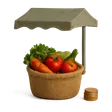
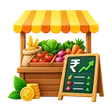
Put generated artwork on every Krushi AI tile, and fix the weather asset
The AI hub header was a gradient sparkles tile plus a title and subtitle; it is
now one brand lockup image. The seven tool cards and four quick-service tiles
each render a generated svc image instead of a flat glyph.

These are not new assets. The svc set already existed at 112/224 WebP, and
every key here was already on disk -- so this follows that convention rather
than inventing one: content filling 86% of the canvas, measured off the
existing files, and every output under the set's byte caps.

Two latent bugs surfaced while wiring it:

  weather.webp shipped a GARDEN TROWEL, not weather. Replaced.

  chat, weather and statecrops were on disk but never registered in PhotoIcon,
  so they shipped in the bundle with no code path able to reach them. Now
  registered. credits and planner are still orphaned this way.

The three newest sources were drawn as app-icon tiles on an OPAQUE backdrop
with the art filling only ~53-62% of the canvas; dropped in as-is they would
have rendered at half size inside a visible off-colour box. Their tile bounds
are detected against the flat backdrop, cropped, and squircle-masked.

ICON_BOX grows 52 -> 60 because IMAGE_PROCESS.md section 2 puts the floor for a
photographic asset at 48dp -- below that a render turns to mud where the SVG kit
still reads. SVG_GLYPH and ICON_GLYPH scale with it so the tiles that kept their
vector icons do not end up rattling around inside a larger box.
[…]

diff --git a/frontend/src/screens/AI/AIAssistantHome.js b/frontend/src/screens/AI/AIAssistantHome.js
@@ -15,7 +15,7 @@
 import { useRef, useEffect, useState } from 'react';
 import {
   View, Text, StyleSheet, ScrollView, TouchableOpacity,
-  Dimensions, Animated, StatusBar,
+  Dimensions, Animated, StatusBar, Image,
 } from 'react-native';
 import { Ionicons } from '@expo/vector-icons';
 import { LinearGradient } from 'expo-linear-gradient';
@@ -30,6 +30,7 @@ import WeatherIcon from '../../components/WeatherIcons';
 import SoilIcon from '../../components/SoilIcons';
 import TabIcon from '../../components/TabIcons';
 import AIServiceIcon from '../../components/AIServiceIcons';
+import PhotoIcon from '../../components/PhotoIcon';
 
 const { width: W } = Dimensions.get('window');
 const GREEN   = COLORS.primary;
@@ -39,15 +40,18 @@ const GREEN_L = COLORS.primaryPale;
 const PAGE_PAD   = 20;   // horizontal screen padding (replaces magic 40 = 2*20)
 const GUTTER     = 12;   // single inter-tile gap for BOTH grids (was 24 vs 12)
 const TILE_R     = 20;   // shared corner radius
-const ICON_BOX   = 52;   // shared icon-box size
-const ICON_GLYPH = 24;   // shared icon glyph size
+const ICON_BOX   = 60;   // shared icon-box size
+// Photographic tiles fill the box. Below 48 dp a render turns to mud where the
+// SVG kit still reads — IMAGE_PROCESS.md §2 — so this must stay >= 48.
+const PHOTO_GLYPH = 52;
+const ICON_GLYPH = 28;   // shared icon glyph size (scales with ICON_BOX)
 // width = (W - 2*PAGE_PAD - (cols-1)*GUTTER) / cols
 const tileWidth  = (cols) => (W - 2 * PAGE_PAD - (cols - 1) * GUTTER) / cols;
 const PRESS_SPRING = { toValue: 0.94, useNativeDriver: true, speed: 40 };
 const RELEASE_SPRING = { toValue: 1, useNativeDriver: true, friction: 4 };
 
 // Glyph size for the realistic SVG icons that sit inside the shared tile bubble.
-const SVG_GLYPH = 32;
+const SVG_GLYPH = 37;
 
 // ── Quick services (4-col icon grid) — labels resolved via t() in render ─────
 // Tiles with `renderIcon` draw a realistic colourful SVG. Krushi Vaani + My Farms
@@ -57,21 +61,21 @@ const SVG_GLYPH = 32;
 // Brand labels point at the canonical aiBrand.* keys so they read
 // "Krushi Drishti / Vaani / Gyaan" in every locale.
 const QUICK_SERVICES = [
-  { id: 'scan',    labelKey: 'aiBrand.drishti', icon: 'scan',                color: COLORS.primary, bg: COLORS.greenTint, border: COLORS.primary + '55', screen: 'CropScan' },
-  { id: 'chat',    labelKey: 'aiBrand.gyaan',   icon: 'chatbubble-ellipses', color: COLORS.blue,    bg: COLORS.blueMist,  border: COLORS.blue + '55',    screen: 'AIChat'   },
-  { id: 'markets', labelKey: 'aiHome.tools.mandi.label', color: COLORS.rustOrange, bg: COLORS.creamOrange, screen: 'Market', renderIcon: () => <TabIcon name="shop" size={SVG_GLYPH} focused /> },
-  { id: 'weather', labelKey: 'aiHome.quickServices.weather', color: COLORS.sellerConfirmed, bg: COLORS.skyPale, screen: 'Weather', renderIcon: () => <WeatherIcon condition="partly-sunny" size={SVG_GLYPH} animated={false} /> },
+  { id: 'scan',    labelKey: 'aiBrand.drishti', icon: 'scan',                color: COLORS.primary, bg: COLORS.greenTint, border: COLORS.primary + '55', screen: 'CropScan', photo: 'scan' },
+  { id: 'chat',    labelKey: 'aiBrand.gyaan',   icon: 'chatbubble-ellipses', color: COLORS.blue,    bg: COLORS.blueMist,  border: COLORS.blue + '55',    screen: 'AIChat', photo: 'chat' },
+  { id: 'markets', labelKey: 'aiHome.tools.mandi.label', color: COLORS.rustOrange, bg: COLORS.creamOrange, screen: 'Market', photo: 'markets', renderIcon: () => <TabIcon name="shop" size={SVG_GLYPH} focused /> },
+  { id: 'weather', labelKey: 'aiHome.quickServices.weather', color: COLORS.sellerConfirmed, bg: COLORS.skyPale, screen: 'Weather', photo: 'weather', renderIcon: () => <WeatherIcon condition="partly-sunny" size={SVG_GLYPH} animated={false} /> },
 ];
 
 // ── AI Tools (2-col grid) ────────────────────────────────────────────────────
 const AI_TOOLS = [
-  { id: 'disease', labelKey: 'aiBrand.drishti', descKey: 'aiHome.tools.disease.desc', icon: 'scan', color: GREEN, bg: COLORS.greenTint, border: GREEN + '55', screen: 'CropScan', badge: 'AI' },
-  { id: 'chatSupport', labelKey: 'aiBrand.gyaan', descKey: 'aiHome.tools.chatSupport.desc', icon: 'chatbubbles', color: COLORS.blue, bg: COLORS.blueMist, border: COLORS.blue + '55', screen: 'AIChat', badge: 'LIVE' },
-  { id: 'voiceChat', labelKey: 'aiBrand.vaani', descKey: 'aiHome.tools.voiceChat.desc', color: COLORS.rustOrange, bg: COLORS.creamOrange, screen: 'VoiceChat', badge: 'NEW', renderIcon: () => <AIServiceIcon name="vaani" size={SVG_GLYPH} animated={false} /> },
-  { id: 'farms', labelKey: 'aiHome.tools.farms.label', descKey: 'aiHome.tools.farms.desc', color: COLORS.primary, bg: COLORS.greenTint, screen: 'FarmList', renderIcon: () => <AIServiceIcon name="farms" size={SVG_GLYPH} animated={false} /> },
-  { id: 'soil', labelKey: 'aiHome.tools.soil.label', descKey: 'aiHome.tools.soil.desc', color: COLORS.brownAlt, bg: COLORS.brownPale, screen: 'SoilHealth', renderIcon: () => <SoilIcon type="black" size={SVG_GLYPH} /> },
-  { id: 'mandi', labelKey: 'aiHome.tools.mandi.label', descKey: 'aiHome.tools.mandi.desc', color: COLORS.rustOrange, bg: COLORS.creamOrange, screen: 'Market', renderIcon: () => <TabIcon name="shop" size={SVG_GLYPH} focused /> },
-  { id: 'stateCrops', labelKey: 'aiHome.tools.stateCrops.label', descKey: 'aiHome.tools.stateCrops.desc', icon: 'map', color: COLORS.brownAlt, bg: COLORS.brownPale, screen: 'StateCrops' },
+  { id: 'disease', labelKey: 'aiBrand.drishti', descKey: 'aiHome.tools.disease.desc', icon: 'scan', color: GREEN, bg: COLORS.greenTint, border: GREEN + '55', screen: 'CropScan', badge: 'AI', photo: 'scan' },
+  { id: 'chatSupport', labelKey: 'aiBrand.gyaan', descKey: 'aiHome.tools.chatSupport.desc', icon: 'chatbubbles', color: COLORS.blue, bg: COLORS.blueMist, border: COLORS.blue + '55', screen: 'AIChat', badge: 'LIVE', photo: 'chat' },
+  { id: 'voiceChat', labelKey: 'aiBrand.vaani', descKey: 'aiHome.tools.voiceChat.desc', color: COLORS.rustOrange, bg: COLORS.creamOrange, screen: 'VoiceChat', badge: 'NEW', photo: 'voice', renderIcon: () => <AIServiceIcon name="vaani" size={SVG_GLYPH} animated={false} /> },
+  { id: 'farms', labelKey: 'aiHome.tools.farms.label', descKey: 'aiHome.tools.farms.desc', color: COLORS.primary, bg: COLORS.greenTint, screen: 'FarmList', photo: 'farms', renderIcon: () => <AIServiceIcon name="farms" size={SVG_GLYPH} animated={false} /> },
+  { id: 'soil', labelKey: 'aiHome.tools.soil.label', descKey: 'aiHome.tools.soil.desc', color: COLORS.brownAlt, bg: COLORS.brownPale, screen: 'SoilHealth', photo: 'soil', renderIcon: () => <SoilIcon type="black" size={SVG_GLYPH} /> },
+  { id: 'mandi', labelKey: 'aiHome.tools.mandi.label', descKey: 'aiHome.tools.mandi.desc', color: COLORS.rustOrange, bg: COLORS.creamOrange, screen: 'Market', photo: 'markets', renderIcon: () => <TabIcon name="shop" size={SVG_GLYPH} focused /> },
+  { id: 'stateCrops', labelKey: 'aiHome.tools.stateCrops.label', descKey: 'aiHome.tools.stateCrops.desc', icon: 'map', color: COLORS.brownAlt, bg: COLORS.brownPale, screen: 'StateCrops', photo: 'statecrops' },
 ];
 
 // ── ServiceTile — ONE tile for both rows (variant: 'quick' | 'card') ─────────
@@ -113,9 +117,35 @@ function ServiceTile({ item, index, variant, onPress, t }) {
           </View>
         )}
 
-        {/* Icon — colourful gradient logo badge (gradient tiles), realistic SVG
-            (renderIcon), else the flat coloured Ionicon. */}
-        {item.gradient ? (
+        {/* Icon — four tiers, in order:
+              1. item.photo   → the generated svc render (IMAGE_PROCESS.md lane R).
+                                On the QUICK row it sits in the tinted box like the
+                                other tiles; on a CARD it floats free, because the
+                                render already carries its own ground and a tinted
+                                plate behind it reads as a box-inside-a-box.
+                                Falls back to the tile's own SVG/Ionicon, never blank.
+              2. item.gradient → colourful gradient logo badge
+              3. item.renderIcon → realistic SVG
+              4. flat coloured Ionicon */}
+        {item.photo ? (
+          <View style={[
+            S.tileIcon,
+            isCard && S.tileIconCard,
+            isCard
+              ? S.tilePhotoBare
+              : { backgroundColor: item.bg, borderColor: item.border || (item.color + '33'), borderWidth: item.border ? 1.5 : 1 },
+          ]}>
+            <PhotoIcon
+              set="svc"
+              name={item.photo}
+              size={PHOTO_GLYPH}
+              radius={0}
+              fallback={item.renderIcon
+                ? item.renderIcon()
+                : <Ionicons name={isCard ? item.icon + '-outline' : item.icon} size={ICON_GLYPH} color={item.color} />}
+            />
+          </View>
+        ) : item.gradient ? (
           <LinearGradient
             colors={item.gradient}
             start={{ x: 0, y: 0 }} end={{ x: 1, y: 1 }}
@@ -149,7 +179,19 @@ function ServiceTile({ item, index, variant, onPress, t }) {
         {/* Text */}
         <Text style={isCard ? S.tileTitle : S.tileLabel}>{t(item.labelKey)}</Text>
         {isCard && item.descKey && (
-          <Text style={S.tileDesc}>{t(item.descKey)}</Text>
+          <View style={S.tileFootRow}>
+            <Text style={[S.tileDesc, S.tileDescFlex]}>{t(item.descKey)}</Text>
+            {/* Decorative affordance only — the whole card is the touch target,
+                so this must not become a second focusable node. */}
+            <View
+              style={[S.tileGo, { backgroundColor: item.bg }]}
+              accessible={false}
+              importantForAccessibility="no-hide-descendants"
+              pointerEvents="none"
+            >
+              <Ionicons name="arrow-forward" size={15} color={item.color} />
+            </View>
+          </View>
         )}
 
       </TouchableOpacity>
@@ -201,17 +243,13 @@ export default function AIAssistantHome({ navigation, embeddedInHub }) {
           embeddedInHub && { paddingTop: 12 },
           { opacity: headerAnim, transform: [{ translateY: headerAnim.interpolate({ inputRange: [0, 1], outputRange: [-16, 0] }) }] },
         ]}>
-          <LinearGradient
-            colors={['#22C55E', '#F5B841']}
-            start={{ x: 0, y: 0 }} end={{ x: 1, y: 1 }}
-            style={S.brandIconWrap}
-          >
-            <Ionicons name="sparkles" size={22} color="#fff" />
-          </LinearGradient>
-          <View style={{ flex: 1 }}>
-            <Text style={S.headerTitle}>{t('aiHome.title')}</Text>
-            <Text style={S.headerSub}>{t('aiHome.subtitle')}</Text>
-          </View>
+          <Image
+            source={require('../../../assets/krushi-ai-header.png')}
+            style={S.brandLockup}
+            resizeMode="contain"
+            accessibilityRole="header"
+            accessibilityLabel={t('aiHome.title')}
+          />
         </Animated.View>
 
         {/* ── Ask input ──────────────────────────────────────────────────── */}
@@ -401,17 +439,10 @@ const S = StyleSheet.create({
 
   // Header
   headerRow: {
-    flexDirection: 'row', alignItems: 'center', gap: 13,
+    flexDirection: 'row', alignItems: 'center',
     paddingTop: 58, paddingHorizontal: 20, paddingBottom: 18,
   },
-  brandIconWrap: {
-    width: 46, height: 46, borderRadius: 16,
-    justifyContent: 'center', alignItems: 'center',
-    shadowColor: '#22C55E', shadowOpacity: 0.4, shadowRadius: 10,
-    shadowOffset: { width: 0, height: 5 }, elevation: 7,
-  },
-  headerTitle: { fontSize: 23, fontWeight: TYPE.weight.black, color: COLORS.textDark, letterSpacing: -0.4 },
-  headerSub:   { fontSize: 12, color: COLORS.textMedium, marginTop: 3, lineHeight: 17 },
+  brandLockup: { width: 234, height: 64 },
 
   // Ask input
   askBtn: {
@@ -485,6 +516,8 @@ const S = StyleSheet.create({
   },
   // Card-only: spacing below icon (quick row uses column `gap` instead)
   tileIconCard: { marginBottom: 10 },
+  // Card photos float on the card surface — no tint, no outline (see ServiceTile).
+  tilePhotoBare: { backgroundColor: 'transparent', borderWidth: 0 },
   // Colourful gradient logo badge — no border, soft coloured glow for a modern,
   // "futuristic" look (shadowColor is set per-tile from its gradient).
   tileIconGradient: {
@@ -497,6 +530,12 @@ const S = StyleSheet.create({
   // Card text
   tileTitle: { fontSize: 13.5, fontWeight: TYPE.weight.black, color: COLORS.textDark, marginBottom: 5, lineHeight: 18 },
   tileDesc:  { fontSize: 11.5, color: COLORS.textMedium, lineHeight: 16 },
+  tileDescFlex: { flex: 1 },
+  tileFootRow: { flexDirection: 'row', alignItems: 'center', gap: 8 },
+  tileGo: {
+    width: 30, height: 30, borderRadius: 15,
+    alignItems: 'center', justifyContent: 'center',
+  },
 
   // History row — separate per-service entry points
   historyRow: {

diff --git a/frontend/src/components/PhotoIcon.js b/frontend/src/components/PhotoIcon.js
@@ -143,12 +143,15 @@ const SETS = {
     success: require('../../assets/state/success.webp'),
   },
   svc: {
+    chat: require('../../assets/svc/chat.webp'),
     farms: require('../../assets/svc/farms.webp'),
     markets: require('../../assets/svc/markets.webp'),
     scan: require('../../assets/svc/scan.webp'),
     soil: require('../../assets/svc/soil.webp'),
     soilscan: require('../../assets/svc/soilscan.webp'),
+    statecrops: require('../../assets/svc/statecrops.webp'),
     voice: require('../../assets/svc/voice.webp'),
+    weather: require('../../assets/svc/weather.webp'),
   },
   symptoms: {
     brown_spots: require('../../assets/symptoms/brown_spots.webp'),
